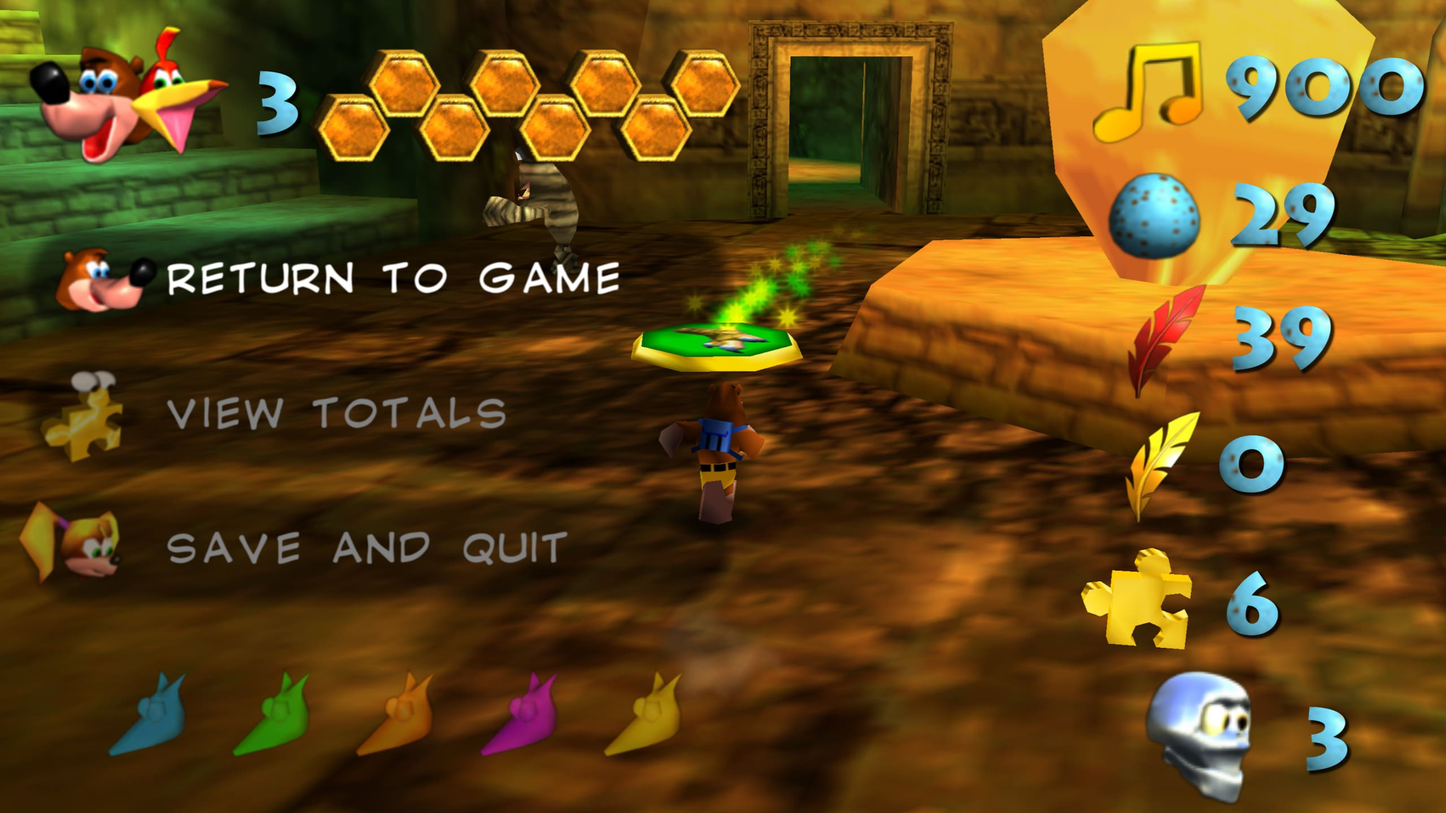
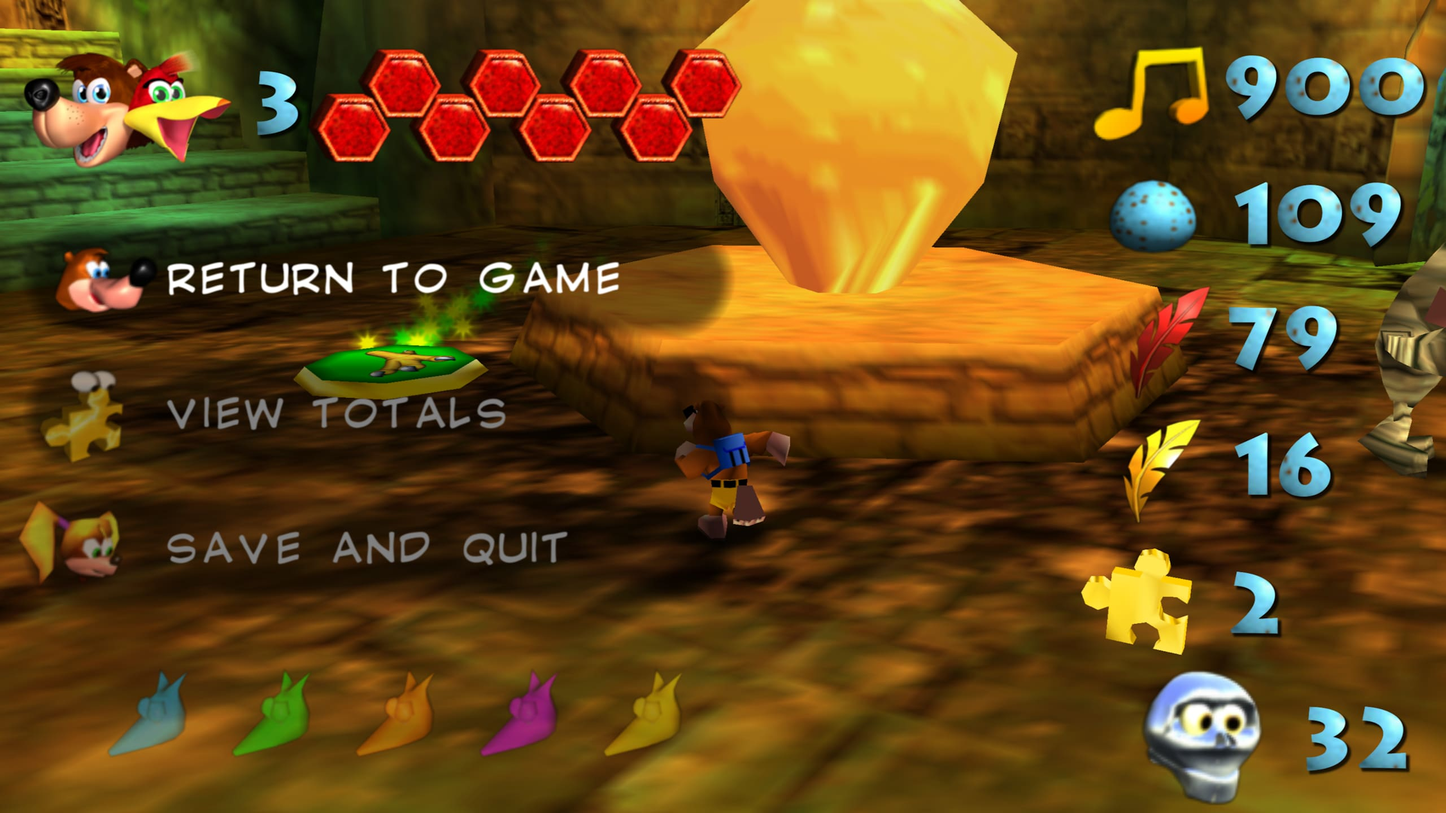
v0.2.1

diff --git a/README.md b/README.md
@@ -75,6 +75,9 @@ Contributors:
 
 - **GhostlyDark:** Main pack creator
 - **brochacho:** Flight and shock jump pad, Grunty (Final) portrait, Puzzle transition
+- **Cloudy:** Japanese in-game font
+- **Granvillimus:** Gold shine, Health animation icons, Level names
 - **intermissionfb:** GoldenEye 007 HD textures
 - **James:** Control Stick animation
+- **Jorginator:** Health animation icons (original render)
 - **toonjoey:** Mumbo painting in Mad Monster Mansion
